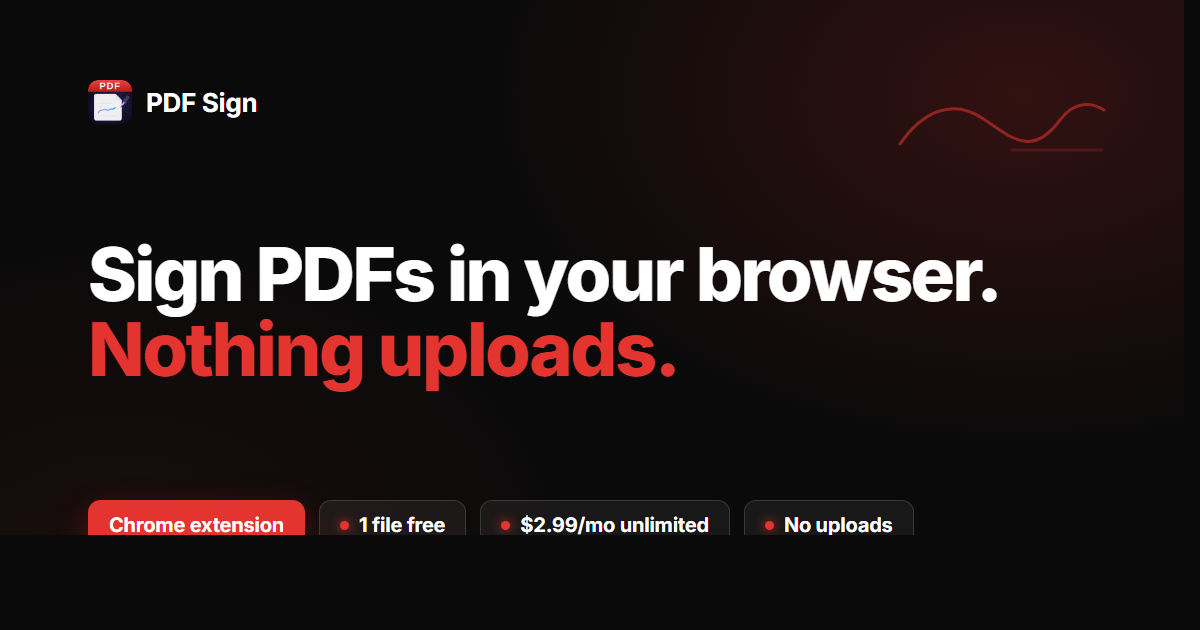
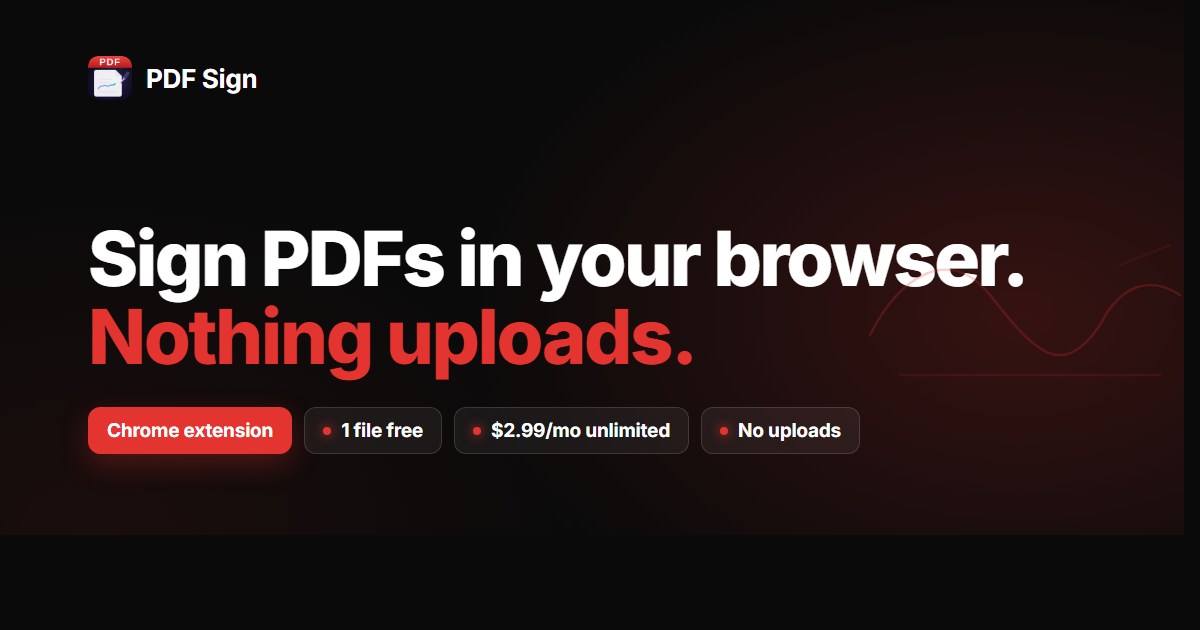
fix(landing): OG preview — vertically centered layout, safer crop
Previous layout used flex space-between to pin chips at the bottom
edge (~80px from canvas bottom). Social cards that render at 2:1
(Twitter summary_large_image) crop ~15px top and bottom and some
reporters clipped the chip row on the bottom edge.

Re-done with CSS grid + content vertically centred:
- Brand row at the top (y≈56-100)
- Main content (headline + chips) vertically centred in the flex
  row, sits in the middle band
- Bottom ~150px is pure gradient breathing room
- Decorative signature flourish moved from top-right corner to
  the right flank, vertically aligned with content, opacity 0.22
  so it reads as background texture, not a second focal point

Content preserved verbatim: brand, headline "Sign PDFs in your
browser. / Nothing uploads.", four chips (Chrome extension,
1 file free, $2.99/mo unlimited, No uploads).

diff --git a/marketing/templates/og-preview.html b/marketing/templates/og-preview.html
@@ -5,7 +5,7 @@
 <title>PDF Sign — OG preview (1200×630)</title>
 <link rel="preconnect" href="https://fonts.googleapis.com">
 <link rel="preconnect" href="https://fonts.gstatic.com" crossorigin>
-<link rel="stylesheet" href="https://fonts.googleapis.com/css2?family=Inter:wght@500;700;800&family=JetBrains+Mono:wght@500&display=swap">
+<link rel="stylesheet" href="https://fonts.googleapis.com/css2?family=Inter:wght@500;700;800&display=swap">
 <style>
   * { box-sizing: border-box; margin: 0; padding: 0; }
   :root {
@@ -26,15 +26,18 @@
   }
   body {
     background:
-      radial-gradient(ellipse 900px 600px at 85% 15%, rgba(227, 52, 47, 0.18), transparent 60%),
-      radial-gradient(ellipse 700px 500px at 10% 90%, rgba(227, 52, 47, 0.07), transparent 70%),
+      radial-gradient(ellipse 900px 600px at 85% 50%, rgba(227, 52, 47, 0.20), transparent 62%),
+      radial-gradient(ellipse 700px 500px at 8% 85%, rgba(227, 52, 47, 0.08), transparent 70%),
       var(--bg);
-    padding: 80px 88px;
-    display: flex;
-    flex-direction: column;
-    justify-content: space-between;
     position: relative;
+    display: grid;
+    /* brand row + flexible content row. Bottom padding keeps chips
+       well above any 2:1 crop line a social card might apply. */
+    grid-template-rows: auto 1fr;
+    padding: 56px 88px 56px;
   }
+
+  /* Brand: top-left, fixed height row */
   .brand {
     display: flex;
     align-items: center;
@@ -50,35 +53,46 @@
     font-weight: 700;
     letter-spacing: -0.3px;
   }
+
+  /* Main content: vertically centered in the flexible row */
+  .main {
+    align-self: center;
+    display: flex;
+    flex-direction: column;
+    gap: 32px;
+    /* Leave a little room for the decorative flourish on the right */
+    max-width: 1024px;
+  }
+
   .headline {
-    font-size: 74px;
+    font-size: 76px;
     font-weight: 800;
     letter-spacing: -2.5px;
     line-height: 1.02;
   }
   .headline .accent { color: var(--red); }
-  .bottom {
+
+  .chips {
     display: flex;
-    align-items: center;
-    gap: 14px;
     flex-wrap: wrap;
+    gap: 12px;
   }
   .chip {
     display: inline-flex;
     align-items: center;
     gap: 10px;
-    padding: 12px 20px;
+    padding: 11px 18px;
     background: rgba(255, 255, 255, 0.06);
     border: 1px solid rgba(255, 255, 255, 0.14);
     border-radius: 12px;
-    font-size: 20px;
+    font-size: 19px;
     font-weight: 600;
     color: var(--text);
     letter-spacing: -0.2px;
   }
   .chip .dot {
-    width: 9px;
-    height: 9px;
+    width: 8px;
+    height: 8px;
     border-radius: 50%;
     background: var(--red);
     box-shadow: 0 0 12px var(--red);
@@ -87,21 +101,25 @@
     background: var(--red);
     border-color: var(--red);
     color: #fff;
-    box-shadow: 0 12px 32px var(--red-glow);
+    box-shadow: 0 10px 28px var(--red-glow);
   }
-  /* Decorative signature stroke, bottom-right corner */
+
+  /* Decorative signature curl — vertically aligned with the content,
+     in the right ~25% of the canvas. Subtle, won't compete with text. */
   .flourish {
     position: absolute;
-    right: 88px;
-    top: 80px;
-    width: 220px;
-    height: 96px;
-    opacity: 0.55;
+    right: 0;
+    top: 50%;
+    transform: translateY(-50%);
+    width: 360px;
+    height: 260px;
+    opacity: 0.22;
+    pointer-events: none;
   }
   .flourish path {
     fill: none;
     stroke: var(--red);
-    stroke-width: 3;
+    stroke-width: 2.5;
     stroke-linecap: round;
     stroke-linejoin: round;
   }
@@ -113,22 +131,24 @@
     <span class="brand-name">PDF Sign</span>
   </div>
 
-  <!-- Decorative signature curl — evokes "sign" without being a real signature -->
-  <svg class="flourish" viewBox="0 0 220 96" aria-hidden="true">
-    <path d="M 8 64 C 30 32, 60 18, 90 38 S 140 78, 168 40 C 180 24, 196 20, 212 30" />
-    <path d="M 120 70 L 210 70" opacity="0.4" />
+  <svg class="flourish" viewBox="0 0 360 260" aria-hidden="true">
+    <path d="M 30 150 C 60 90, 110 60, 150 110 S 220 200, 260 140 C 280 100, 310 90, 340 110" />
+    <path d="M 60 190 L 320 190" opacity="0.55" />
+    <path d="M 280 80 L 330 60" opacity="0.4" />
   </svg>
 
-  <h1 class="headline">
-    Sign PDFs in your browser.<br>
-    <span class="accent">Nothing uploads.</span>
-  </h1>
+  <main class="main">
+    <h1 class="headline">
+      Sign PDFs in your browser.<br>
+      <span class="accent">Nothing uploads.</span>
+    </h1>
 
-  <div class="bottom">
-    <span class="chip primary">Chrome extension</span>
-    <span class="chip"><span class="dot"></span>1 file free</span>
-    <span class="chip"><span class="dot"></span>$2.99/mo unlimited</span>
-    <span class="chip"><span class="dot"></span>No uploads</span>
-  </div>
+    <div class="chips">
+      <span class="chip primary">Chrome extension</span>
+      <span class="chip"><span class="dot"></span>1 file free</span>
+      <span class="chip"><span class="dot"></span>$2.99/mo unlimited</span>
+      <span class="chip"><span class="dot"></span>No uploads</span>
+    </div>
+  </main>
 </body>
 </html>
